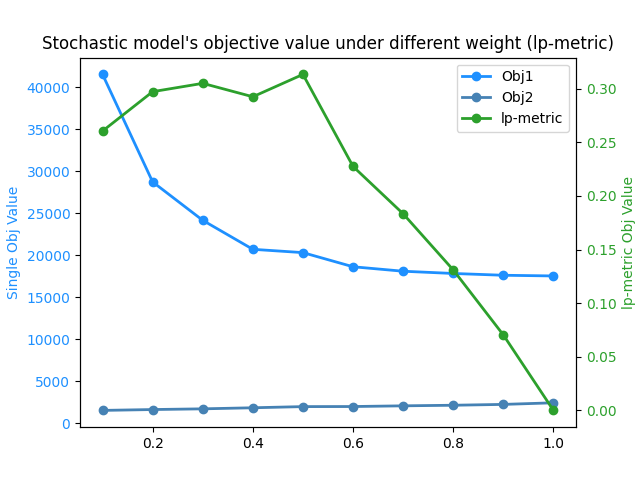
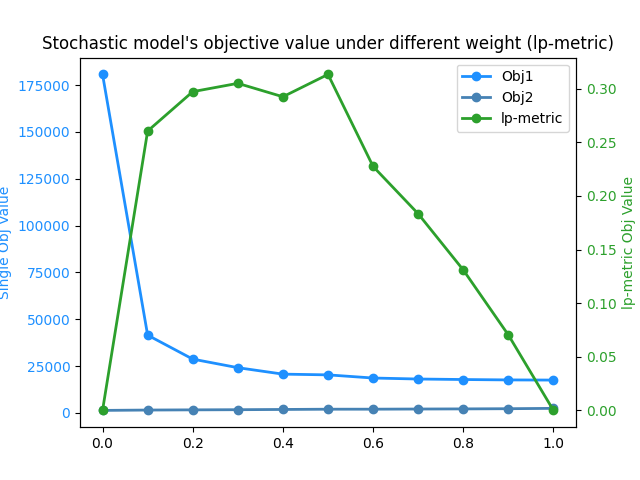
fix: weight analysis figures (+ delta)

diff --git a/sp_model.py b/sp_model.py
@@ -1,7 +1,7 @@
 # %%
 import pandas as pd
 from gurobipy import *
-from util import to_range, DATA_PATH, FIG_PATH, getSupplierAADistance, OptimizationMethod
+from util import to_range, DATA_PATH, FIG_PATH, RESULT_PATH, getSupplierAADistance, OptimizationMethod
 from typing import List
 import matplotlib.pyplot as plt
 
@@ -75,7 +75,9 @@ PARAMETER = dict(
 
 def solve(weight=0.1,
           opt_method=OptimizationMethod.LP_METRIC,
-          single_objval: List[float] = [0, 0], eps=[7, 15 - 7], GAMMA=100, delta_term=True):
+          single_objval: List[float] = [0, 0], eps=[7, 15 - 7],
+          GAMMA=100,
+          delta_term=True):
     # supplier -> RDC / CS -> AA
     model = Model('Disaster relief logistic model: Discrete Stochastic')
     model.ModelSense = GRB.MINIMIZE
@@ -267,7 +269,7 @@ def solve(weight=0.1,
 
 def draw(optimize_method: str):
     # weight range
-    weights = [0.1 * i for i in range(1, 11)]
+    weights = [0.1 * i for i in range(11)]
     # matplotlib settings
     ax1_color = 'dodgerblue'
     ax1_color2 = 'steelblue'
@@ -277,7 +279,6 @@ def draw(optimize_method: str):
     # stochastic prefix
     title = f'Stochastic model\'s objective value under different weight ({optimize_method})'
     figname = f'/sp_{optimize_method}.png'
-    statname = f'/statistics/dm_{optimize_method}.txt'
 
     if optimize_method == 'weighted-sum':
         solvers = [solve(w, OptimizationMethod.WEIGHTED_SUM) for w in weights]
@@ -336,14 +337,24 @@ def draw(optimize_method: str):
     plt.show()
 
     # saving stats
-    with open(FIG_PATH + statname, 'w') as f:
-        if optimize_method == 'lp-metric':
-            f.write(f'Obj1*: {obj1_star}, Obj2*: {obj2_star} \n\n')
-        for wid, w in enumerate(weights):
-            o1 = round(Obj1s[wid], 4)
-            o2 = round(Obj2s[wid], 4)
-            o3 = round(wObjs[wid], 4)
-            f.write(f'w: {w}, Obj1: {o1}, Obj2: {o2}, {optimize_method}: {o3} \n')
+    columns = ['w', 'Obj1', 'Obj2', optimize_method]
+    statname = f'/statistics/sp_{optimize_method}.csv'
+    rows = {}
+    if optimize_method == 'lp-metric':
+       rows['*'] = [obj1_star, obj2_star, '', '']
+    for wid, w in enumerate(weights):
+        o1 = round(Obj1s[wid], 4)
+        o2 = round(Obj2s[wid], 4)
+        o3 = round(wObjs[wid], 4)
+        # message = f'w: {w}, Obj1: {o1}, Obj2: {o2}, {optimize_method}: {o3} \n'
+        row = [w, o1, o2, o3]
+        rows[wid] = row
+    sp_table = pd.DataFrame.from_dict(rows,
+                orient='index',
+                columns=columns)
+    print(sp_table)
+    sp_table.to_csv(RESULT_PATH + statname)
+
 
 
 # %%
